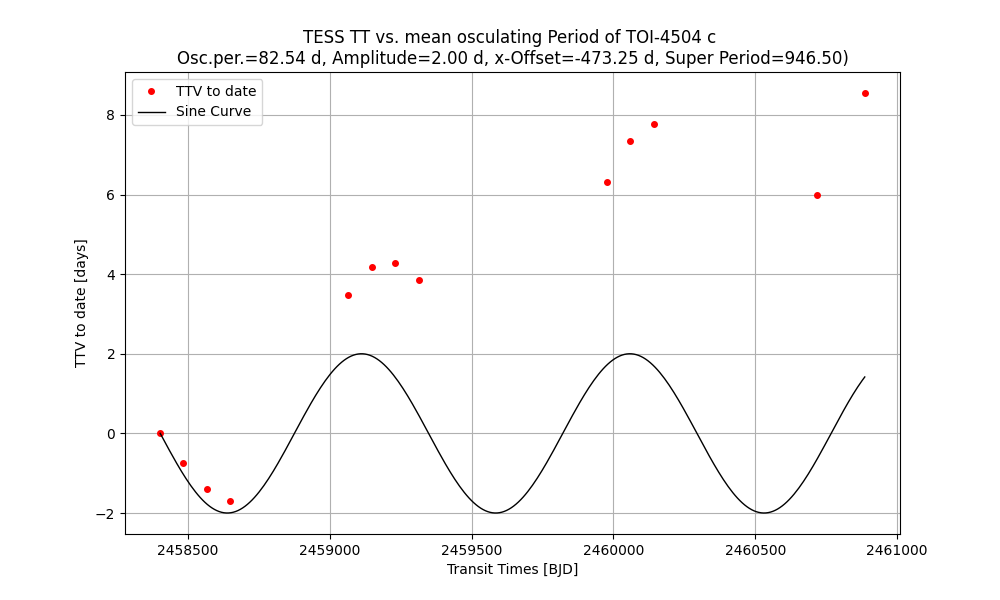
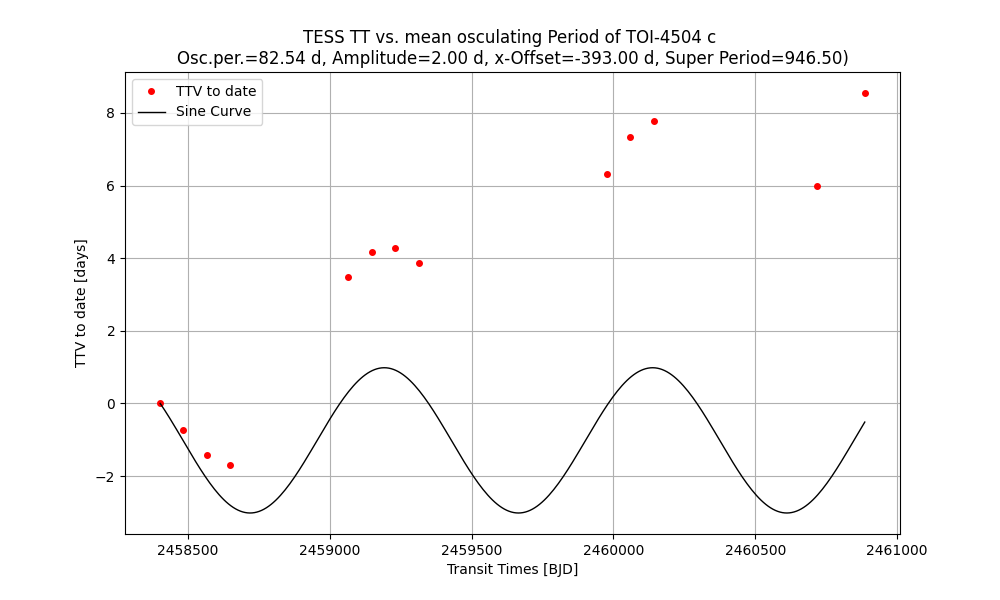
0.5.6 Fitting TOI-4504

diff --git a/src/curvesimulator/curvesim.py b/src/curvesimulator/curvesim.py
@@ -1,4 +1,5 @@
 # When testing, do not run this file directly. Run run_curvesim.py (in the parent directory) instead.
+import sys
 import time
 
 from .cs_animation import CurveSimAnimation
@@ -131,18 +132,19 @@ class CurveSimulator:
                 # dummy_mcmc.tt_delta_plot(1, "Vitkova_MaxL_tt_delta.png", measured_tt)
 
         else:  # p.results_only
-            time_s0, time_d = CurveSimParameters.init_time_arrays(p)  # s0 in seconds, starting at 0. d in BJD.
-            bodies = CurveSimBodies(p)  # Read physical bodies from config file and initialize them, calculate their state vectors and generate their patches for the animation
-            p.eclipsers = ["TOI4504c"]
-            p.eclipsees = ["TOI4504"]
+            # time_s0, time_d = CurveSimParameters.init_time_arrays(p)  # s0 in seconds, starting at 0. d in BJD.
+            # bodies = CurveSimBodies(p)  # Read physical bodies from config file and initialize them, calculate their state vectors and generate their patches for the animation
+
+            # p.eclipsers = ["TOI4504c"]
+            # p.eclipsees = ["TOI4504"]
 
             # results = CurveSimResults.load_results(p.result_file)
             # tt_sim = results.get_transit_data("TOI4504c", "TOI4504", "TT")
             # print(tt_sim)
 
             CurveSimResults.ttv_to_date_plot(p, amplitude=2.1, period=965, x_offset=-450, osc_per=82.83)
-            CurveSimResults.ttv_to_date_plot(p, amplitude=2.0, period=946.5, x_offset=-946.5/2, osc_per=82.5438)
-
+            CurveSimResults.ttv_to_date_plot(p, amplitude=2.0, period=946.5, x_offset=-393, osc_per=82.5438)
+            sys.exit(0)
         self.parameters = p
         self.bodies = bodies
 
